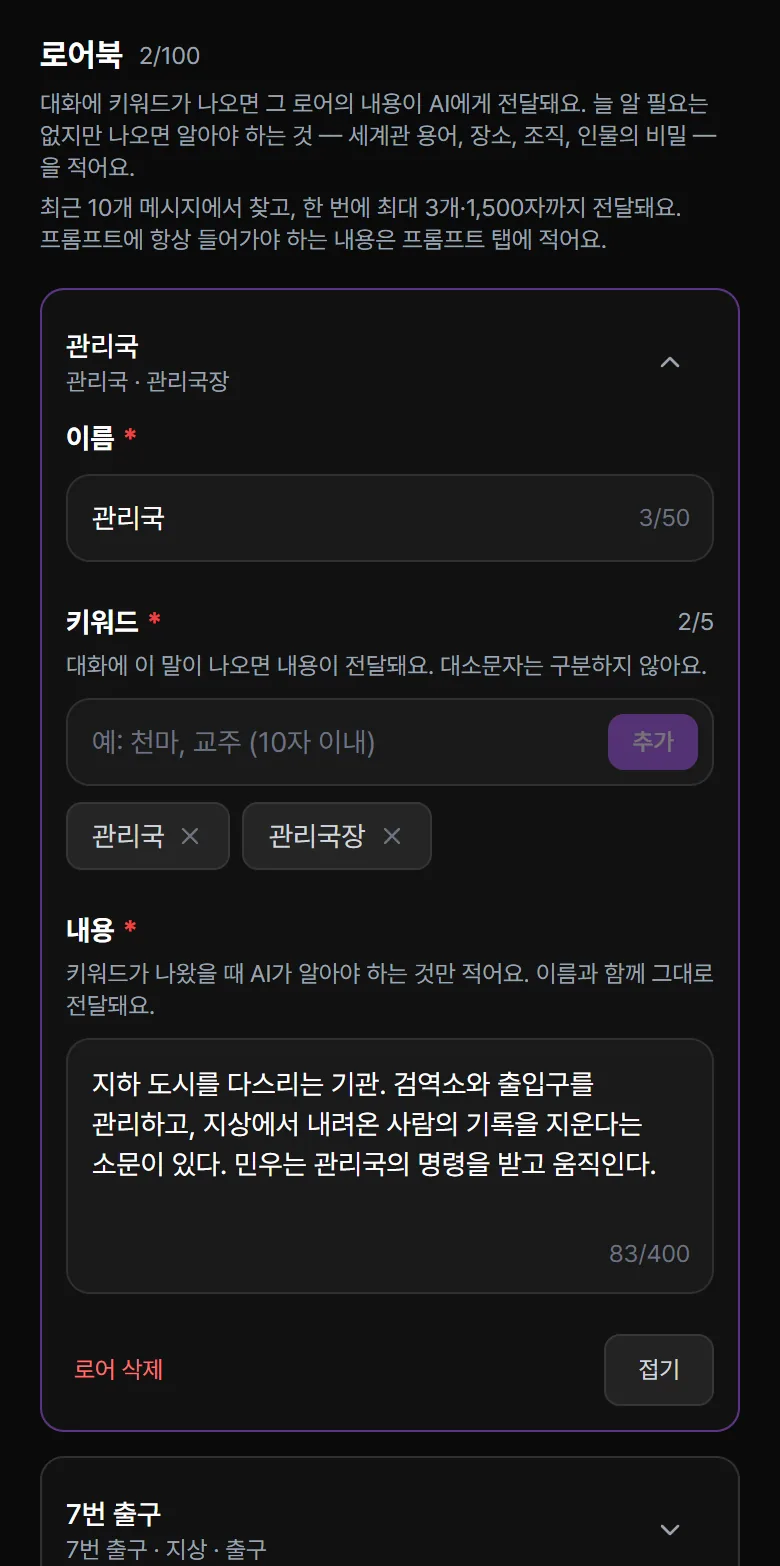
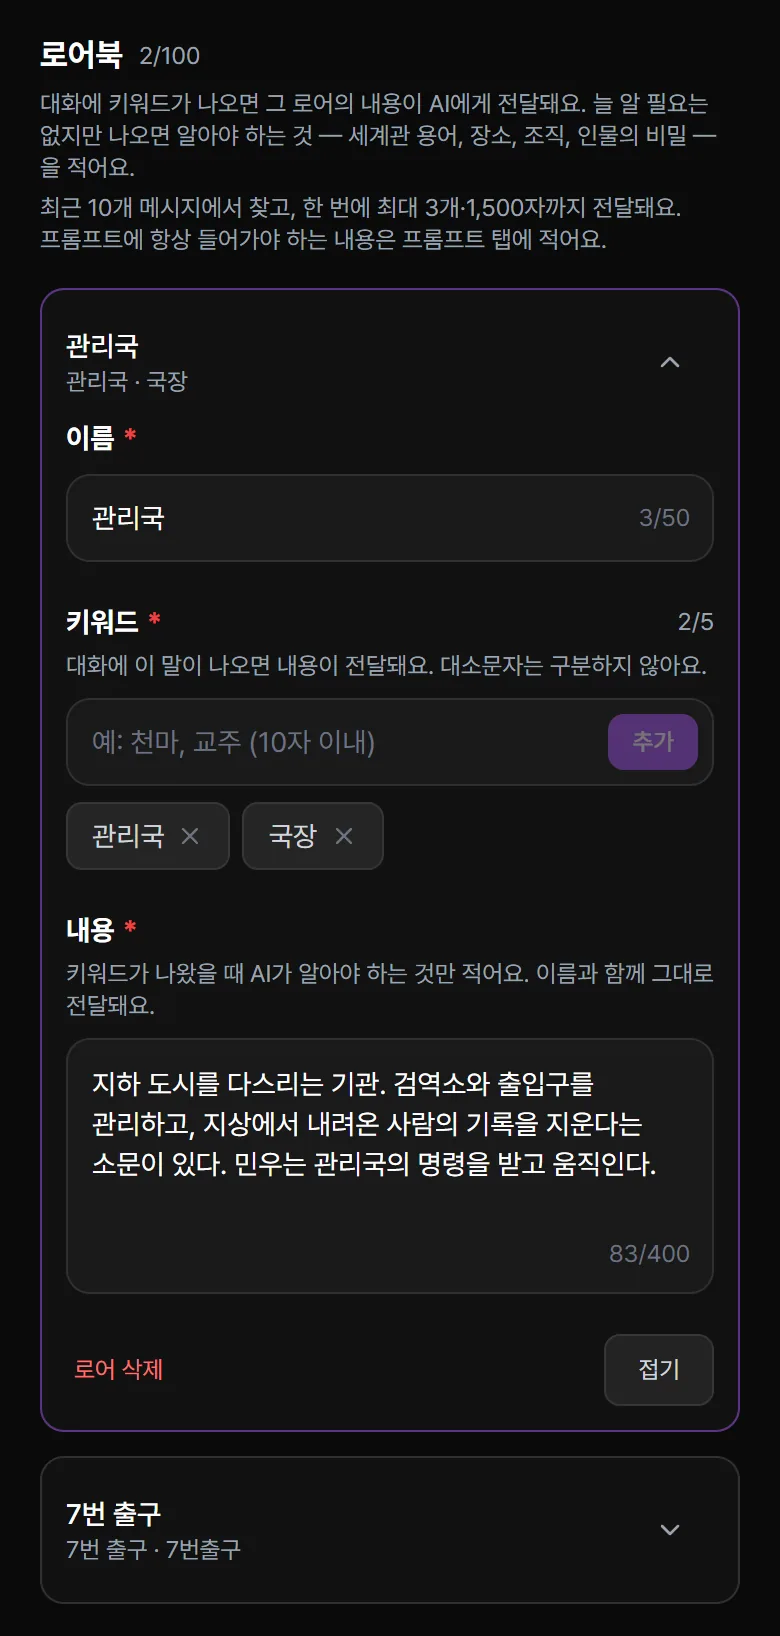
docs(가이드): 예전 예시가 찍힌 제작 가이드 화면 네 장을 목업으로 바꿈
- lorebook·lorebook-editor: 키워드 예시를 본문과 같게(관리국·국장, 7번 출구·7번출구)
- legacy-assets: 이미지 이름을 서버가 만드는 6자 코드로, 대표 이미지 ★ 한 장
- manage-menu: 거절됨 표시가 보이는 카드(① ⋮)와 메뉴를 연 카드(② 재심사 요청)를 위아래로. 단계 번호를 그에 맞춰 나눔
- manage-appeal 캡션에 (웹), 1.0 예시 상황 설명을 인물 이름이 들어간 문장으로
- README: 목업인 화면과 도구 위치

diff --git a/guide-site/docs/create/making/publish.md b/guide-site/docs/create/making/publish.md
@@ -79,20 +79,21 @@ last_update:
 
 ## 거절된 작품의 재심사 요청
 
-<ScreenStep src="/img/screens/ko/manage-menu.webp" alt="거절됨 표시가 있는 작품의 ⋮ 메뉴를 연 모습. 재심사 요청과 삭제" caption="⋮ → 재심사 요청">
+<ScreenStep src="/img/screens/ko/manage-menu.webp" device="part" alt="거절됨 표시가 있는 작품 카드 두 장. 위 카드는 ⋮ 버튼에 1번, 아래 카드는 ⋮를 눌러 연 메뉴의 재심사 요청에 2번이 붙어 있다" caption="⋮ → 재심사 요청">
 
 검토에서 거절되면 작품 카드에 **거절됨**이 표시돼요.
 
-1. 그 작품의 **⋮** 버튼을 누르고 **재심사 요청**을 눌러요.
-2. **거절 사유**를 확인해요.
+1. 그 작품의 **⋮** 버튼을 눌러요. 메뉴가 열리면 거절됨 표시가 메뉴에 가려져요.
+2. **재심사 요청**을 눌러요.
+3. **거절 사유**를 확인해요.
 
 </ScreenStep>
 
-<ScreenStep src="/img/screens/ko/manage-appeal.webp" alt="거절 사유 창. 거절 사유 아래에 심사팀에 전달할 메시지 칸과 제출하기 버튼" caption="거절 사유와 재심사 요청">
+<ScreenStep src="/img/screens/ko/manage-appeal.webp" alt="거절 사유 창. 거절 사유 아래에 심사팀에 전달할 메시지 칸과 제출하기 버튼" caption="거절 사유와 재심사 요청(웹)">
 
-3. 사유에 맞게 작품을 고치고 **수정 반영**을 눌러요. 고치는 방법은 [공개한 작품 고치기](#공개한-작품-고치기)와 같아요.
-4. 다시 **⋮ → 재심사 요청**을 눌러요.
-5. 필요하면 메시지 칸에 고친 내용을 적고 요청을 보내요. 웹은 거절 사유 창의 **재심사 요청**을 누른 뒤 **제출하기**를, 앱은 창 아래쪽 **재심사 요청**을 눌러요. 재심사는 관리자가 검토한 뒤 처리해요.
+4. 사유에 맞게 작품을 고치고 **수정 반영**을 눌러요. 고치는 방법은 [공개한 작품 고치기](#공개한-작품-고치기)와 같아요.
+5. 다시 **⋮ → 재심사 요청**을 눌러요.
+6. 필요하면 메시지 칸에 고친 내용을 적고 요청을 보내요. 웹은 거절 사유 창의 **재심사 요청**을 누른 뒤 **제출하기**를, 앱은 창 아래쪽 **재심사 요청**을 눌러요. 재심사는 관리자가 검토한 뒤 처리해요.
 
 </ScreenStep>
 

diff --git a/guide-site/docs/create/legacy/edit.md b/guide-site/docs/create/legacy/edit.md
@@ -43,7 +43,7 @@ last_update:
 
 ### 2. 에셋
 
-<ScreenStep src="/img/screens/ko/legacy-assets.webp" alt="구버전 제작 화면의 에셋 단계. 이미지마다 img:코드와 상황 설명, 별 아이콘이 있다" caption="1.0 · 에셋">
+<ScreenStep src="/img/screens/ko/legacy-assets.webp" alt="구버전 제작 화면의 에셋 단계. 이미지마다 img:AB3K9X 같은 이름과 상황 설명이 있고, 강민우 이미지의 별이 대표 이미지로 켜져 있다" caption="1.0 · 에셋">
 
 - 이미지를 올리거나 **AI 이미지**로 만들어요. 다음 단계로 가려면 이미지가 1장 이상 있어야 해요. 200장까지 넣을 수 있어요.
 - 이미지를 누르면 **상황 설명 입력** 창이 열려요. **캐릭터 선택**에서 이미지 속 인물을 고르고(인물이 없는 배경 같은 이미지는 **공용**), 그 인물의 이름을 넣어 상황 설명을 60자 안으로 적은 뒤 **저장**을 눌러요. AI가 어떤 장면에 이 이미지를 쓸지 판단하는 기준이에요.

diff --git a/guide-site/docs/create/making/lorebook.md b/guide-site/docs/create/making/lorebook.md
@@ -31,7 +31,7 @@ last_update:
 
 </ScreenStep>
 
-<ScreenStep src="/img/screens/ko/lorebook-editor.webp" device="part" alt="관리국 로어를 펼친 모습. 이름, 키워드, 내용 칸과 로어 삭제·접기 버튼" caption="로어 편집">
+<ScreenStep src="/img/screens/ko/lorebook-editor.webp" device="part" alt="관리국 로어를 펼친 모습. 이름 관리국, 키워드 관리국·국장, 내용 칸과 로어 삭제·접기 버튼" caption="로어 편집">
 
 - **이름**: 로어의 이름이에요. 50자까지. 내용과 함께 AI에게 전해져요.
 - **키워드**: 대화에 이 말이 나오면 내용이 전해져요. 5개까지, 하나에 10자까지예요. 10자를 넘게 적으면 앞 10자만 들어가요. 적고 Enter나 쉼표를 누르거나 **추가**를 눌러 넣어요. 대소문자는 구분하지 않아요.

diff --git a/guide-site/docs/create/legacy/reference.md b/guide-site/docs/create/legacy/reference.md
@@ -68,7 +68,7 @@ last_update:
 
 ### 예: 이미지 한 장 옮기기
 
-1.0에서 인물 **강민우**에 연결하고 상황 설명을 "민우가 웃는 모습"으로 적은 이미지(`img:[AB3K9X]`)가 있다면, 지금 방식에서는 이렇게 옮겨요.
+1.0에서 인물 **강민우**에 연결하고 상황 설명을 "강민우가 웃는 모습"으로 적은 이미지(`img:[AB3K9X]`)가 있다면, 지금 방식에서는 이렇게 옮겨요.
 
 1. **프롬프트**의 작품 정보에 민우의 역할·성격·말투를 적어요.
 2. **에셋**에 캐릭터 폴더 `A`를 만들고 그 이미지를 코드 `1`로 넣어요.
